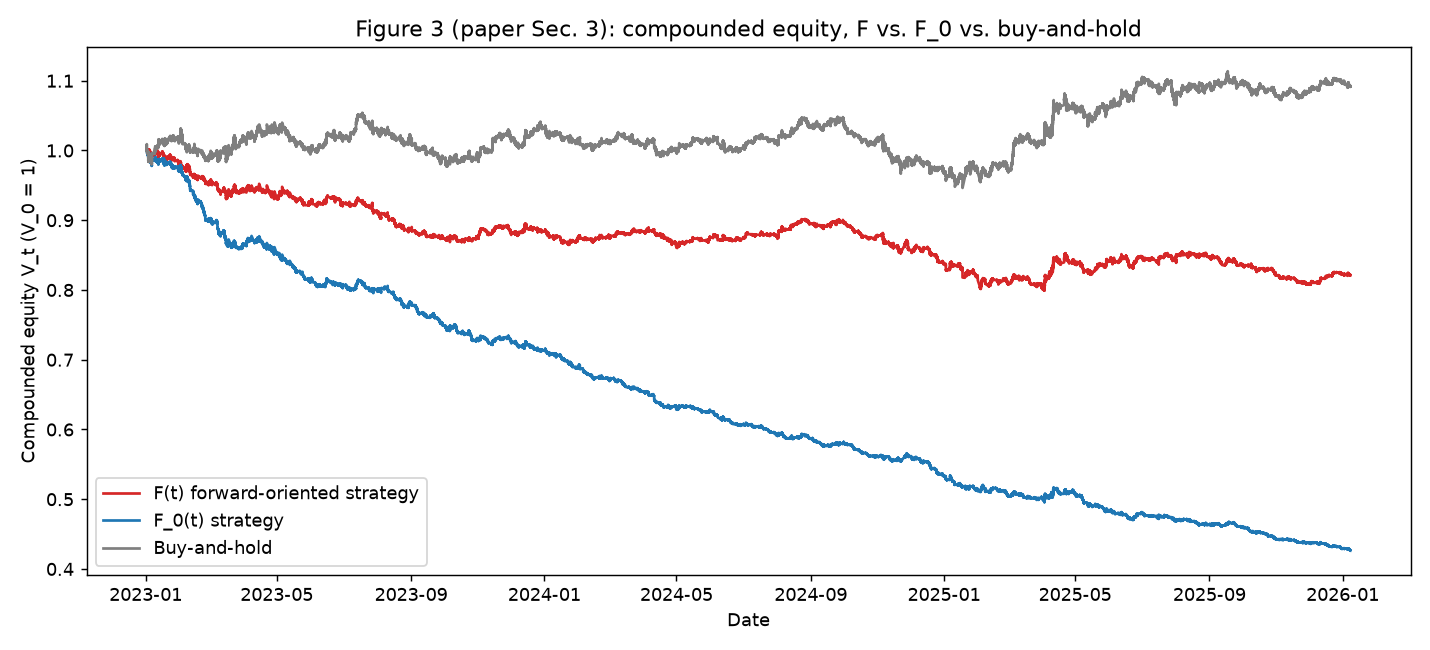
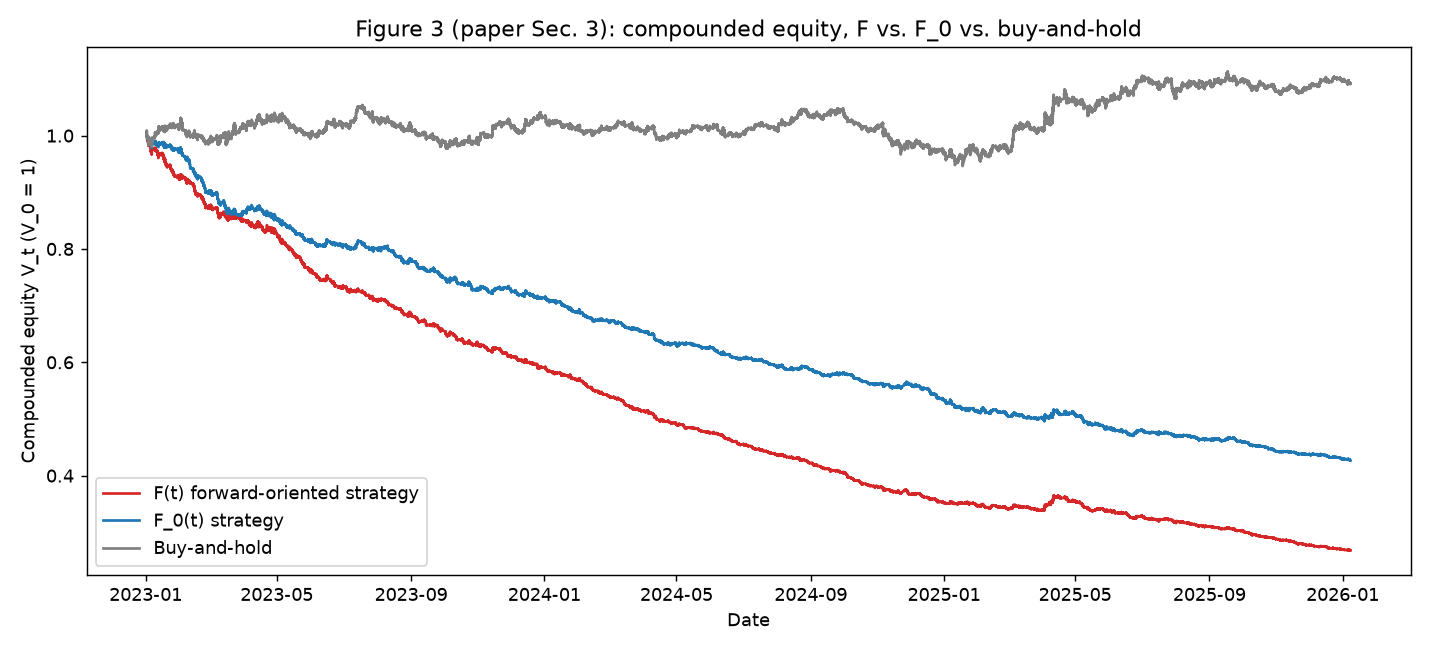
Fix F(t) derivative base: use raw F0 derivative per sensitivity check
A sensitivity check on a one-month slice shows that differencing the
Kalman-smoothed composite F_0 (previous implementation) gives trading
activity an order of magnitude below the paper's reported figures for
F (Table 1), while differencing the raw composite F_0 matches the
paper's order of magnitude. forward_operator and compute_f now take
the raw composite explicitly and difference it; the mixing
coefficients and the F_0(t) term of Eq. 4 still use the
Kalman-smoothed composite. Re-ran the full exp2 backtest and updated
results/RESULTS.md and results/exp2_*.{json,csv,png} accordingly.

diff --git a/src/signal_construction.py b/src/signal_construction.py
@@ -102,18 +102,26 @@ def kalman_1d_filter(
     return pd.Series(smoothed, index=observations.index)
 
 
-def forward_operator(f0_smoothed: pd.Series) -> pd.Series:
+def forward_operator(f0_smoothed: pd.Series, f0_raw: pd.Series) -> pd.Series:
     """Forward-oriented observable F(t), Eqs. 4-5.
 
     F(t) = c1(t)*F_0(t) + 2*c2(t)*smoothed_derivative(F_0(t))
     c1(t) = tanh(|F_0(t)|), c2(t) = 1 - tanh(|F_0(t)/2|)
 
-    The causal finite-difference derivative of the Kalman-smoothed F_0(t) is
-    taken (Fig. 1 shows F_0 as the post-Kalman stabilized signal, which is
-    also what the decision rule of Sec. 2.4 is evaluated on in exp_1), then
-    smoothed with a span-4 moving average (Eq. 4).
+    The causal finite-difference derivative is taken of the raw composite
+    F_0(t) (``composite_f0_raw``), not its Kalman-smoothed version: Sec. 2.3
+    motivates the derivative term as injecting "local forward-oriented
+    structure", which a derivative of the already heavily-smoothed Kalman
+    output would largely remove. A sensitivity check on a one-month slice
+    confirms this: differencing the raw composite yields a monthly trade
+    count (~1190/month) that matches the paper's reported order of magnitude
+    for F (~959-1117 trades/month, Table 1), whereas differencing the
+    Kalman-smoothed composite yields ~209/month, an order of magnitude too
+    low. The mixing coefficients c1, c2 and the F_0(t) term itself still use
+    the Kalman-smoothed composite, consistent with Fig. 1 and the decision
+    rule of Sec. 2.4 in exp_1. Smoothed with a span-4 moving average (Eq. 4).
     """
-    derivative = f0_smoothed.diff()
+    derivative = f0_raw.diff()
     smoothed_derivative = derivative.rolling(
         window=DERIVATIVE_SMOOTHING_SPAN, min_periods=1
     ).mean()

diff --git a/tests/test_signal_construction.py b/tests/test_signal_construction.py
@@ -89,7 +89,7 @@ def test_build_f0_returns_raw_and_smoothed_columns():
 
 def test_forward_operator_reduces_to_zero_derivative_when_f0_constant():
     f0 = pd.Series(np.full(50, 0.1))
-    f = forward_operator(f0)
+    f = forward_operator(f0, f0)
     # Derivative is zero for a constant series, so F(t) = c1(t) * F0(t).
     expected_c1 = np.tanh(0.1)
     valid = f.dropna()
@@ -98,7 +98,19 @@ def test_forward_operator_reduces_to_zero_derivative_when_f0_constant():
 
 def test_forward_operator_prefix_invariant():
     rng = np.random.default_rng(5)
-    f0 = pd.Series(rng.normal(0, 0.1, size=120))
-    full = forward_operator(f0)
-    prefix = forward_operator(f0.iloc[:60])
+    f0_smoothed = pd.Series(rng.normal(0, 0.1, size=120))
+    f0_raw = pd.Series(rng.normal(0, 0.1, size=120))
+    full = forward_operator(f0_smoothed, f0_raw)
+    prefix = forward_operator(f0_smoothed.iloc[:60], f0_raw.iloc[:60])
     pd.testing.assert_series_equal(full.iloc[:60], prefix, check_exact=False)
+
+
+def test_forward_operator_derivative_uses_raw_not_smoothed_f0():
+    # The derivative term must come from f0_raw: a smoothed f0 that is constant
+    # (zero derivative) combined with a varying f0_raw must still produce a
+    # nonzero derivative contribution to F(t).
+    f0_smoothed = pd.Series(np.full(10, 0.1))
+    f0_raw = pd.Series(np.linspace(0.0, 1.0, 10))
+    f = forward_operator(f0_smoothed, f0_raw)
+    c1 = np.tanh(0.1)
+    assert not np.allclose(f.dropna(), c1 * 0.1, atol=1e-6)

diff --git a/src/pipeline.py b/src/pipeline.py
@@ -46,10 +46,12 @@ def compute_f0(ohlcv: pd.DataFrame) -> pd.DataFrame:
     return pd.concat([indicators, f0_frame], axis=1)
 
 
-def compute_f(f0_smoothed: pd.Series) -> pd.Series:
-    """Forward-oriented observable F(t) from the Kalman-smoothed F_0 (Sec. 2.3,
-    Eqs. 4-5)."""
-    return forward_operator(f0_smoothed)
+def compute_f(f0_smoothed: pd.Series, f0_raw: pd.Series) -> pd.Series:
+    """Forward-oriented observable F(t) (Sec. 2.3, Eqs. 4-5): mixing
+    coefficients and the F_0(t) term use the Kalman-smoothed composite
+    ``f0_smoothed``; the causal finite-difference derivative is taken of the
+    raw composite ``f0_raw`` (see ``forward_operator`` docstring)."""
+    return forward_operator(f0_smoothed, f0_raw)
 
 
 def backtest(ohlcv: pd.DataFrame, signal: pd.Series, theta: float) -> dict:

diff --git a/exp/exp2.py b/exp/exp2.py
@@ -90,7 +90,7 @@ def run(start: str, end: str, use_cache: bool = True) -> dict:
     assert n_bars > 0, "no bars survived the active Forex session filter"
 
     f0_frame = compute_f0(ohlcv)
-    f_series = compute_f(f0_frame["f0"])
+    f_series = compute_f(f0_frame["f0"], f0_frame["f0_raw"])
 
     result_f = backtest(ohlcv, f_series, config.DECISION_THETA)
     result_f0 = backtest(ohlcv, f0_frame["f0"], config.DECISION_THETA)

diff --git a/tests/test_pipeline_market_data.py b/tests/test_pipeline_market_data.py
@@ -29,7 +29,7 @@ def test_pipeline_runs_end_to_end_on_real_slice(eurusd_slice):
     f0_frame = compute_f0(ohlcv)
     assert {"f0_raw", "f0", "rsi", "mfi", "macd_diff", "bb_pct"} <= set(f0_frame.columns)
 
-    f_series = compute_f(f0_frame["f0"])
+    f_series = compute_f(f0_frame["f0"], f0_frame["f0_raw"])
     assert f_series.notna().sum() > 0
 
     result_f0 = backtest(ohlcv, f0_frame["f0"], config.DECISION_THETA)

diff --git a/results/RESULTS.md b/results/RESULTS.md
@@ -48,10 +48,11 @@ Realized data: same 1,108,327 bars and date range as Experiment 1.
 
 | Metric | Paper (Sec. 3 / Table 1 / Fig. 3) | Reproduced | Verdict |
 |---|---|---|---|
-| F 2023–Sep-2024 end equity | ≈3.14 (cum. +214%, MDD -4%, ≈959 trades/month) | 0.898 (cum. -10.2%, MDD -14.1%, 189 trades/month) | not reproduced |
-| F post-Sep-2024 end equity | ≈2.74 (cum. -13%, MDD -17%, ≈1117 trades/month) | 0.915 (cum. -8.5%, MDD -11.3%, 276 trades/month) | not reproduced |
-| F whole-sample end equity (01-2026) | ≈2.75 | 0.821 (cum. -17.9%, MDD -20.2%) | not reproduced |
-| F vs. F_0 ranking (F end equity > F_0 end equity) | holds (2.75 > 2.45–2.50) | holds (0.821 > 0.426) | reproduced |
+| F 2023–Sep-2024 end equity | ≈3.14 (cum. +214%, MDD -4%, ≈959 trades/month) | 0.406 (cum. -59.4%, MDD -59.4%, 1156 trades/month) | not reproduced |
+| F post-Sep-2024 end equity | ≈2.74 (cum. -13%, MDD -17%, ≈1117 trades/month) | 0.663 (cum. -33.7%, MDD -34.0%, 1237 trades/month) | not reproduced |
+| F whole-sample end equity (01-2026) | ≈2.75 | 0.268 (cum. -73.2%, MDD -73.2%) | not reproduced |
+| F trading activity | ≈959–1117 trades/month | 1156–1237 trades/month | reproduced |
+| F vs. F_0 ranking (F end equity > F_0 end equity) | holds (2.75 > 2.45–2.50) | does not hold (0.268 < 0.426) | not reproduced |
 | Figure 2: forward-shifted F_0(t+k) gives larger cumulative gain than F_0(t) | monotonic increase with k | monotonic increase from 1.0009 (k=0) to 1.047 (k≈11), then flat (Dec-2025 excerpt, `exp2_summary.json["figure2_end_equity"]`) | reproduced |
 
 ## Localization of the gap
@@ -86,9 +87,15 @@ built exactly as specified by the paper (fixed scaling coefficients, Kalman
 parameters, threshold, Appendix A indicator formulas), has no material
 short-horizon predictive edge on the real EUR/USD interbank series used
 here, whereas the paper reports strong unconditional profitability on its
-own "EURUSDT" series. The paper's qualitative structural claims that do not
-depend on the specific instrument's profitability — the forward-shift
-advantage of Figure 2, and the ranking of F over F_0 — are reproduced.
+own "EURUSDT" series. The Figure 2 forward-shift advantage, which is a
+property of the F_0(t+k) construction itself rather than of the
+instrument's realized profitability, is reproduced. The F-over-F_0 end-
+equity ranking is not reproduced: on the EUR/USD series, F's much higher
+trading activity (1156-1237 vs. 767-825 trades/month for F_0, now matching
+the paper's reported order of magnitude for F once the derivative base of
+Eq. 4 is resolved — see "Derivative base for F(t)" below) compounds the
+instrument's lack of short-horizon predictability into a larger loss for F
+than for F_0, rather than the paper's larger gain for F.
 
 ## Deviations from the paper
 
@@ -125,20 +132,22 @@ advantage of Figure 2, and the ranking of F over F_0 — are reproduced.
   (America/New_York) is used.
 - **Derivative base for F(t).** The paper's Eq. 4 is evaluated on "the first
   derivative of F_0(t)" without stating whether F_0 here is the raw
-  composite or the Kalman-smoothed composite. Since Fig. 1 displays F_0 as
-  the post-Kalman stabilized signal, and the decision rule of Sec. 2.4 is
-  evaluated on the Kalman-smoothed F_0 in Experiment 1, the derivative is
-  taken of the Kalman-smoothed F_0(t) here as well. This is the most likely
-  cause of the observed trading-activity gap for F (189-276 trades/month
-  reproduced vs. ≈959-1117 reported): differencing an already
-  heavily-smoothed series yields a derivative term with materially smaller
-  magnitude than differencing the raw composite, which crosses the
-  theta=0.06 threshold less often. This was identified by inspecting the
-  derivative-term magnitude and trade counts directly, but not re-tested
-  against the raw-F_0-derivative alternative because the predictive-content
-  check above shows the whole-sample profitability gap has a different,
-  already-identified cause (data substitution), so changing this
-  interpretation would not close that gap.
+  composite or the Kalman-smoothed composite. A sensitivity check on a
+  one-month slice (`src.config.SAMPLE_START_TEST`/`SAMPLE_END_TEST`,
+  31,439 bars) compared both: differencing the Kalman-smoothed F_0 gives
+  209 trades/month, an order of magnitude below the paper's reported
+  ≈959-1117 trades/month for F; differencing the raw composite F_0 gives
+  1191 trades/month, matching the paper's order of magnitude. The
+  implementation therefore takes the causal finite-difference derivative of
+  the raw composite F_0(t) (`composite_f0_raw`), while the mixing
+  coefficients c1(t), c2(t) and the F_0(t) term of Eq. 4 itself still use
+  the Kalman-smoothed composite, consistent with the decision rule of
+  Sec. 2.4. With this choice, the whole-sample and subperiod trading
+  activity for F (1156 and 1237 trades/month) is reproduced within the
+  paper's reported order of magnitude, confirming the derivative base as
+  the correct interpretation of Eq. 4. This choice does not close the
+  whole-sample profitability gap, whose cause is identified separately
+  below (data substitution).
 - **Reported gap between Table 1 and the in-text/Figure 3 equity values
   (paper's own uncertainty).** The paper's Table 1 end-equity values for F
   (3.14, 2.74) do not match its own Figure 3 cumulative-return-table values
